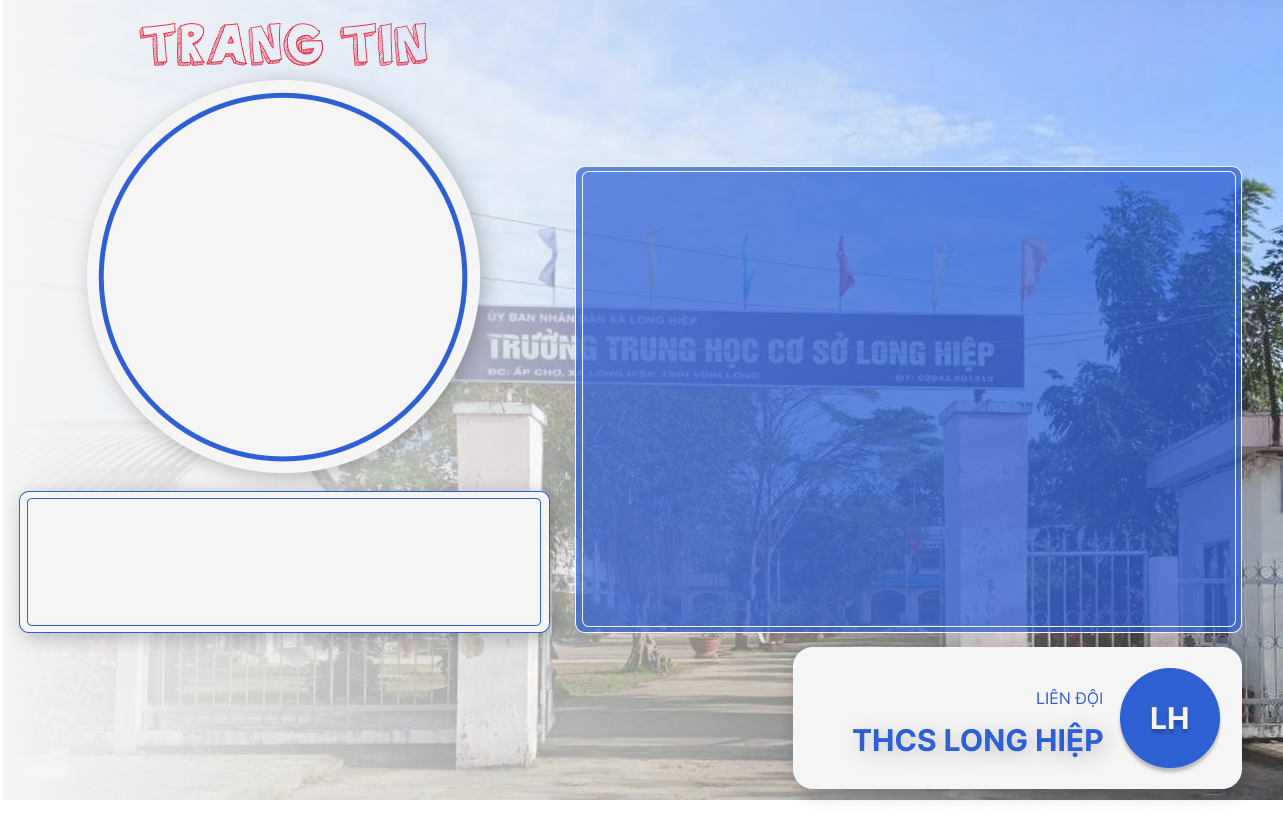
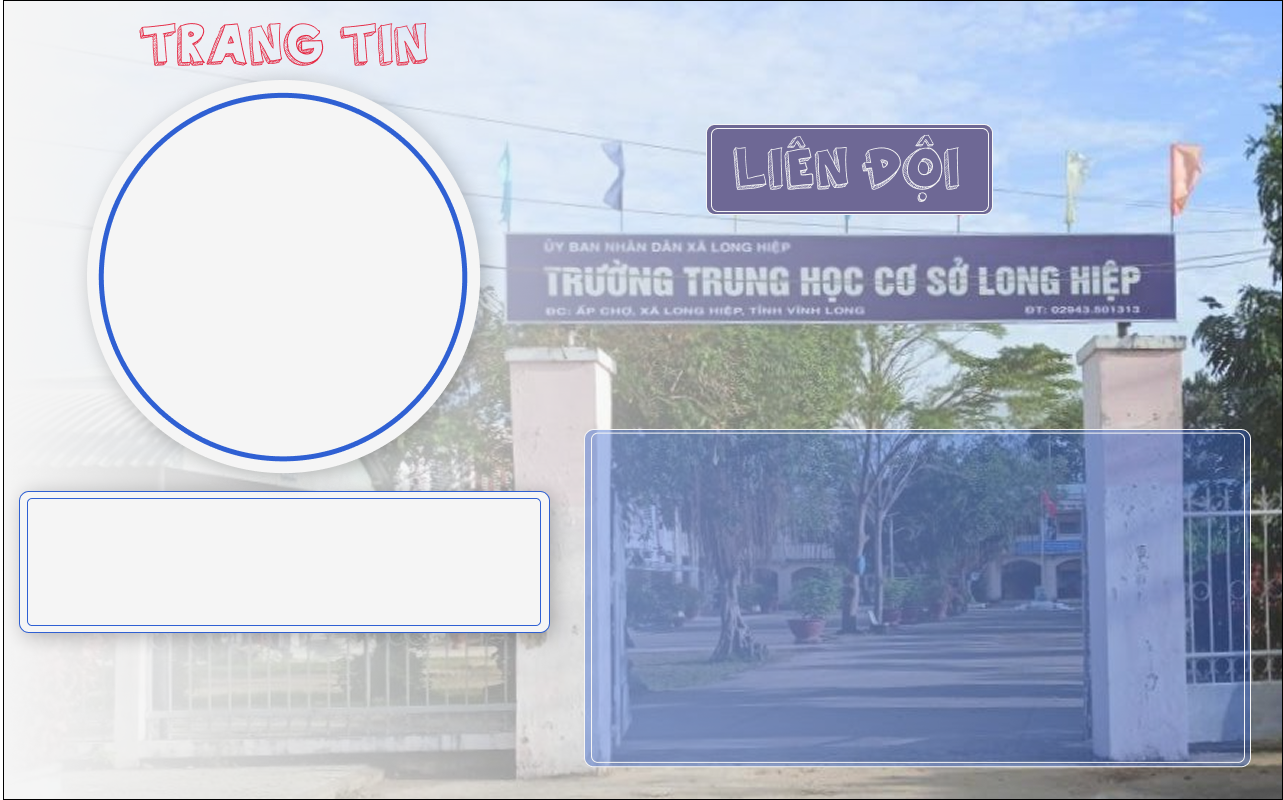
Update card layout, improve image cropping, and refine UI aesthetics

diff --git a/src/app/HomeClient.tsx b/src/app/HomeClient.tsx
@@ -145,7 +145,7 @@ export default function HomeClient({ config }: { config: LayoutConfig }) {
             {/* Left Side: Form */}
             <div className={styles.leftPanel}>
                 <div className={styles.form}>
-                    <h2 style={{ marginBottom: '0.5rem', color: '#111' }}>Tạo Thẻ Giới Thiệu</h2>
+                    <h2 style={{ marginBottom: '0.5rem', color: '#111' }}>Trường THCS Long Hiệp</h2>
                     <p style={{ color: '#666', fontSize: '0.9rem', marginBottom: '1rem' }}>
                         Nhập thông tin bên dưới để tạo thẻ của riêng bạn.
                     </p>
@@ -175,7 +175,7 @@ export default function HomeClient({ config }: { config: LayoutConfig }) {
                         <label className={styles.label}>Chức vụ</label>
                         <input
                             type="text"
-                            placeholder="Ví dụ: Giám đốc kinh doanh"
+                            placeholder="Ví dụ: Chi đội trưởng"
                             value={position}
                             onChange={(e) => setPosition(e.target.value)}
                             className={styles.input}
@@ -183,9 +183,9 @@ export default function HomeClient({ config }: { config: LayoutConfig }) {
                     </div>
 
                     <div className={styles.formGroup}>
-                        <label className={styles.label}>Kỳ vọng của bạn</label>
+                        <label className={styles.label}>Tin hoạt động</label>
                         <textarea
-                            placeholder="Chia sẻ ngắn gọn về kỳ vọng hoặc mục tiêu của bạn..."
+                            placeholder="Nội dung diễn tả hoạt động..."
                             value={expectation}
                             onChange={(e) => setExpectation(e.target.value)}
                             className={styles.textarea}
@@ -243,7 +243,7 @@ export default function HomeClient({ config }: { config: LayoutConfig }) {
                                     ref={contentTextRef}
                                     className={styles.expectation}
                                 >
-                                    {expectation || "Nội dung kỳ vọng của bạn sẽ hiển thị ở đây. Hãy nhập thông tin để xem trước kết quả."}
+                                    {expectation || "Nội dung diễn tả hoạt động..."}
                                 </div>
                             </div>
 
@@ -260,7 +260,7 @@ export default function HomeClient({ config }: { config: LayoutConfig }) {
                                 {avatar ? (
                                     <img
                                         src={avatar}
-                                        alt="Avatar"
+                                        alt="Hình hoạt động"
                                         className={styles.avatar}
                                         style={{
                                             width: '100%',
@@ -271,7 +271,7 @@ export default function HomeClient({ config }: { config: LayoutConfig }) {
                                         }}
                                     />
                                 ) : (
-                                    <div className={`${styles.avatar} ${styles.placeholderAvatar}`}>AVATAR</div>
+                                    <div className={`${styles.avatar} ${styles.placeholderAvatar}`}>Hình hoạt động</div>
                                 )}
                             </div>
 
@@ -286,7 +286,7 @@ export default function HomeClient({ config }: { config: LayoutConfig }) {
                                     zIndex: 30
                                 }}
                             >
-                                {name || "FULL NAME"}
+                                {name || "HỌ VÀ TÊN"}
                             </div>
 
                             {/* Position */}
@@ -300,7 +300,7 @@ export default function HomeClient({ config }: { config: LayoutConfig }) {
                                     zIndex: 30
                                 }}
                             >
-                                {position || "Position"}
+                                {position || "Chức vụ"}
                             </div>
                         </div>
                     </div>

diff --git a/src/app/page.module.css b/src/app/page.module.css
@@ -232,7 +232,7 @@
 }
 
 .name {
-  font-size: clamp(0.8rem, 1.3vw, 1.5rem);
+  font-size: clamp(0.6rem, 1.3vw, 1.5rem);
   /* Responsive sizing */
   font-weight: bold;
   color: #E52944;
@@ -243,7 +243,7 @@
 }
 
 .position {
-  font-size: clamp(0.7rem, 1vw, 1rem);
+  font-size: clamp(0.5rem, 1vw, 1rem);
   /* Responsive sizing */
   color: #2F60D3;
   font-weight: normal;
